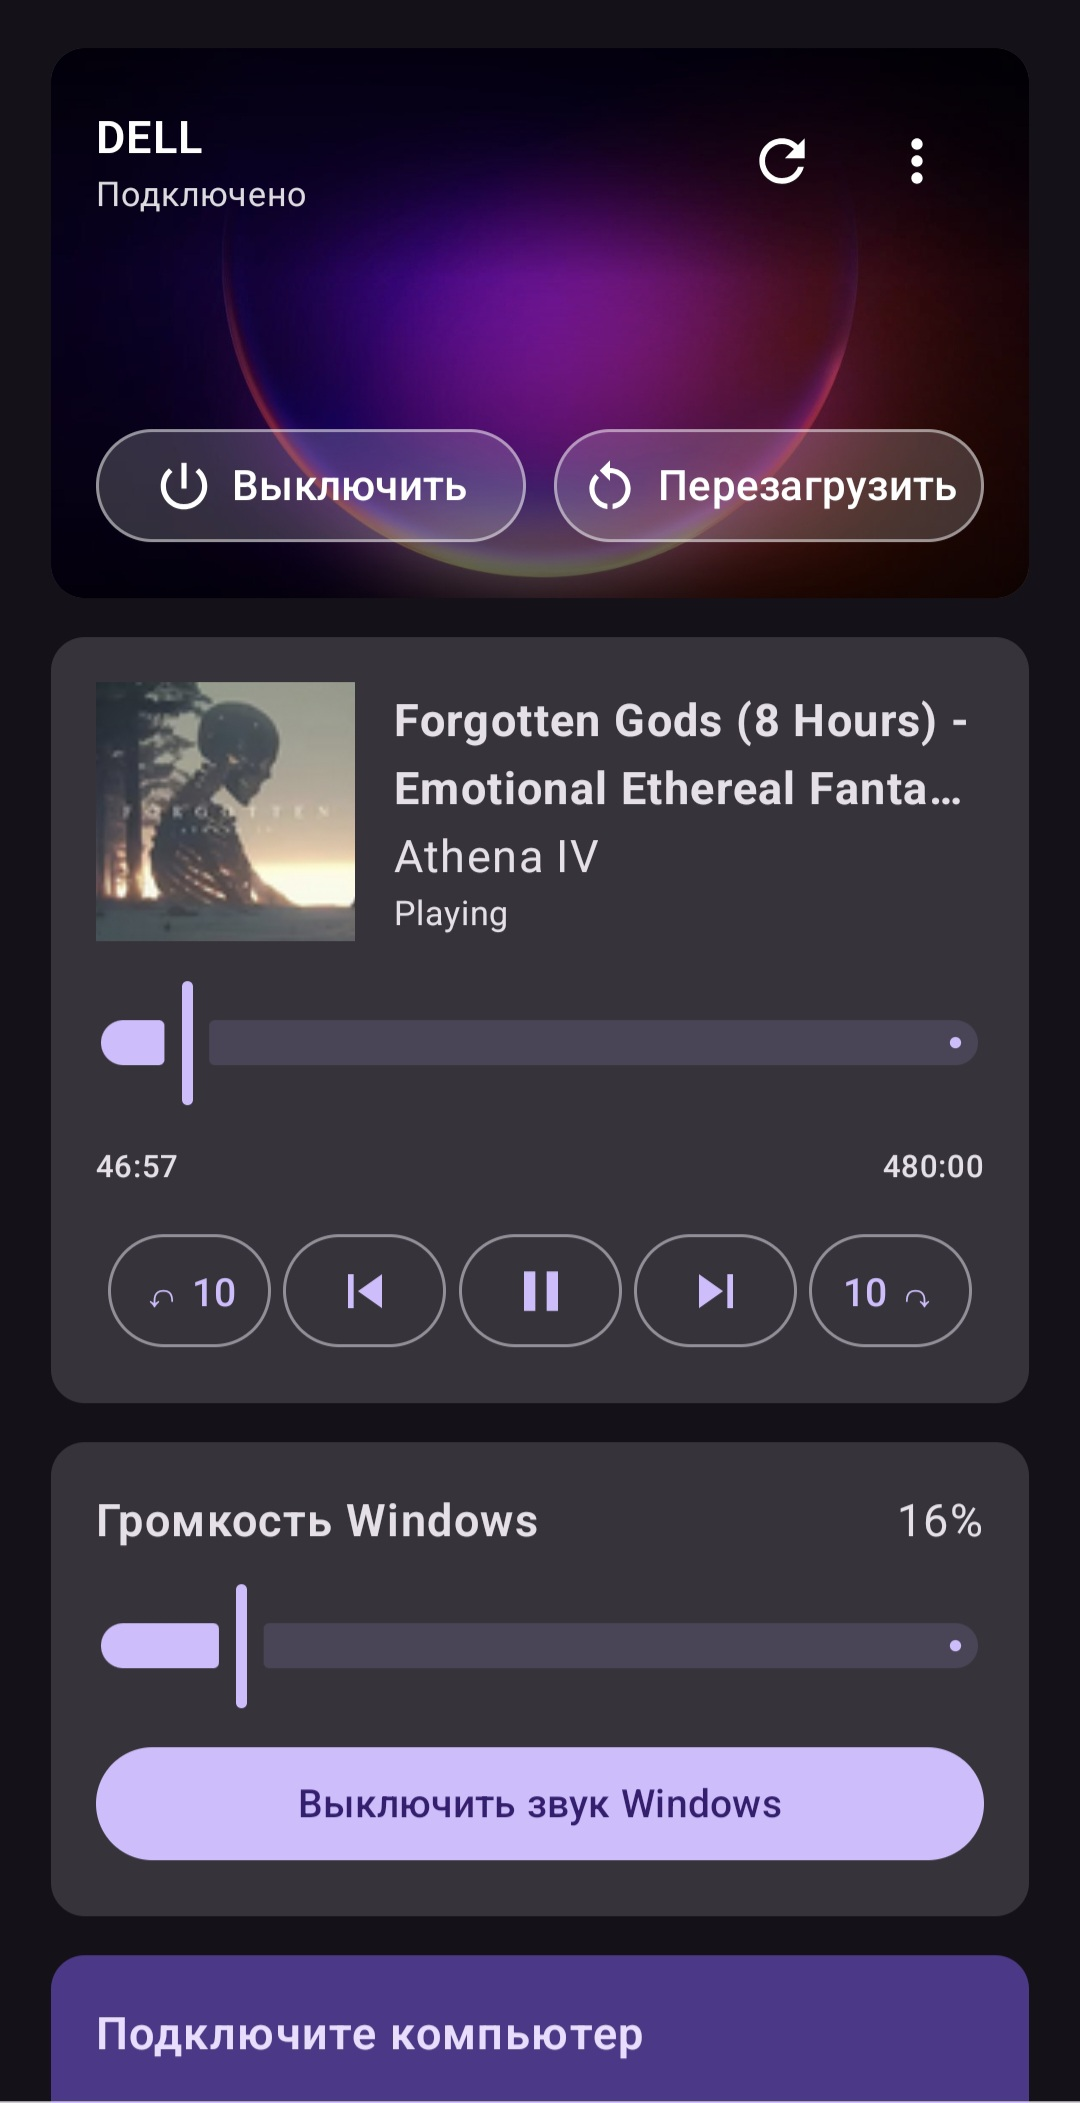
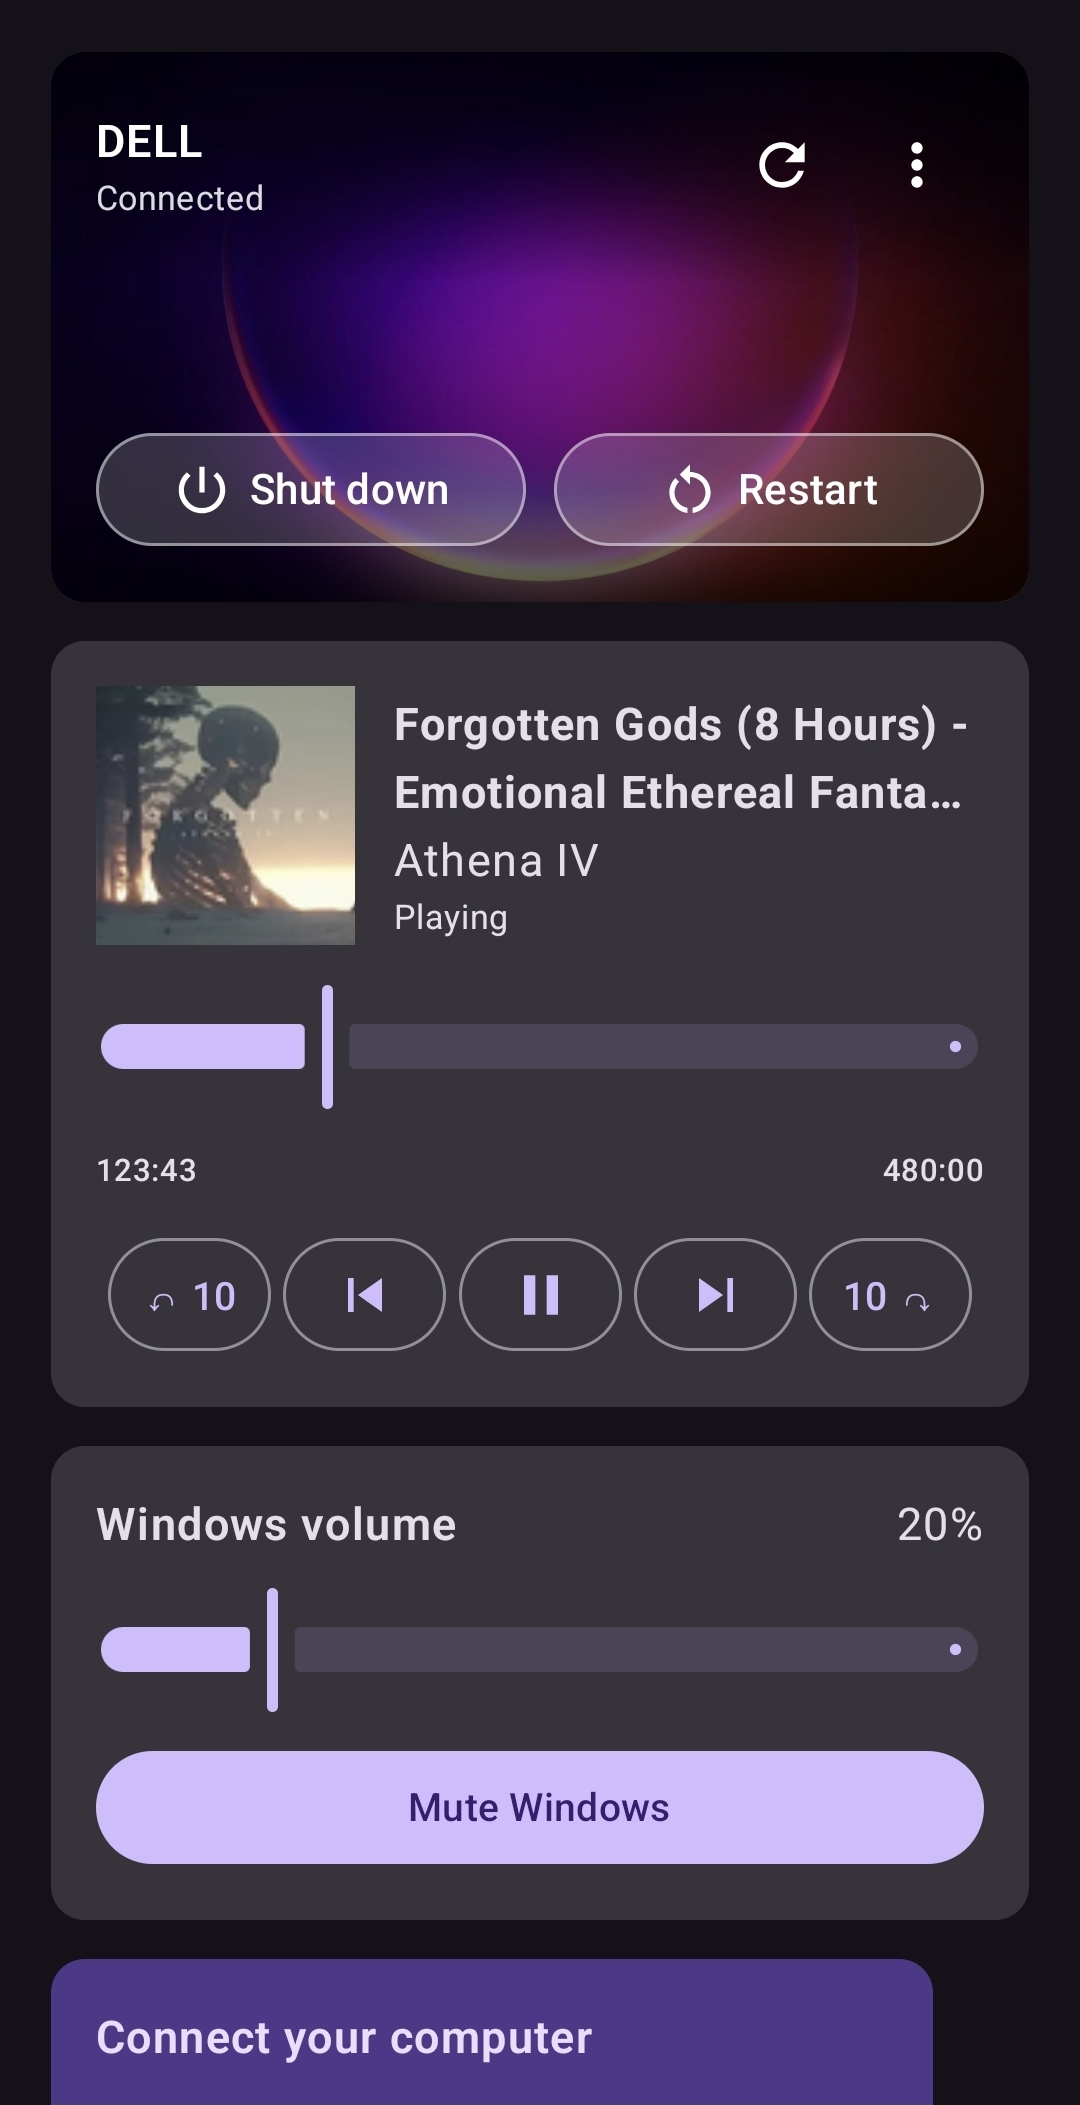
Use English Deskora screenshots

diff --git a/app/page.tsx b/app/page.tsx
@@ -34,7 +34,7 @@ export default function Home() {
       <nav className="site-nav">
         <a className="brand" href="#top" aria-label="Deskora home"><span className="brand-mark" aria-hidden="true"><span /><span /></span><span>Deskora</span></a>
         <div className="nav-links" aria-label="Page navigation"><a href="#how-it-works">How it works</a><a href="#features">Features</a><a href="#downloads">Download</a></div>
-        <a className="nav-github" href="#github"><GitBranch size={16} /> GitHub soon</a>
+        <a className="nav-github" href="https://github.com/pinkelectric/Deskora" target="_blank" rel="noreferrer"><GitBranch size={16} /> GitHub</a>
       </nav>
 
       <section className="hero" id="top">
@@ -71,7 +71,7 @@ export default function Home() {
 
       <section className="showcase">
         <div className="showcase-copy"><p className="eyebrow"><span /> Familiar, but yours</p><h2>Keep the controls<br />where they belong.</h2><p>The full remote lives in Deskora. When media is playing, the usual Android media controls stay available from the notification shade too.</p><div className="tiny-stat"><Music2 /> The phone mirrors Windows media — it does not play a second audio stream.</div></div>
-        <div className="showcase-images"><figure className="shot-menu"><img src="/screenshots/deskora-menu.jpg" alt="Deskora menu with sleep, lock and connection settings" /></figure><figure className="shot-notification"><img src="/screenshots/deskora-notification.jpg" alt="Deskora media controls in the Android notification shade" /></figure></div>
+        <div className="showcase-images"><figure className="shot-menu"><img src="/screenshots/deskora-menu.jpg" alt="Deskora media controls in Android quick settings" /></figure><figure className="shot-notification"><img src="/screenshots/deskora-notification.jpg" alt="Deskora media controls in the Android notification shade" /></figure></div>
       </section>
 
       <section className="download-section" id="downloads">
@@ -83,7 +83,7 @@ export default function Home() {
       </section>
 
       <section className="privacy-strip"><LockKeyhole /><p><strong>Your connection stays yours.</strong> Deskora works between your paired phone and PC on the same local network. No account is needed.</p><a href="/privacy">Privacy details <ChevronRight /></a></section>
-      <footer id="github"><a className="brand" href="#top"><span className="brand-mark" aria-hidden="true"><span /><span /></span><span>Deskora</span></a><p>Windows media, on your phone.</p><span>© 2026 Deskora · Public GitHub repository is being prepared.</span></footer>
+      <footer id="github"><a className="brand" href="#top"><span className="brand-mark" aria-hidden="true"><span /><span /></span><span>Deskora</span></a><p>Windows media, on your phone.</p><a href="https://github.com/pinkelectric/Deskora" target="_blank" rel="noreferrer">© 2026 Deskora · View the public GitHub repository</a></footer>
     </main>
   );
 }
